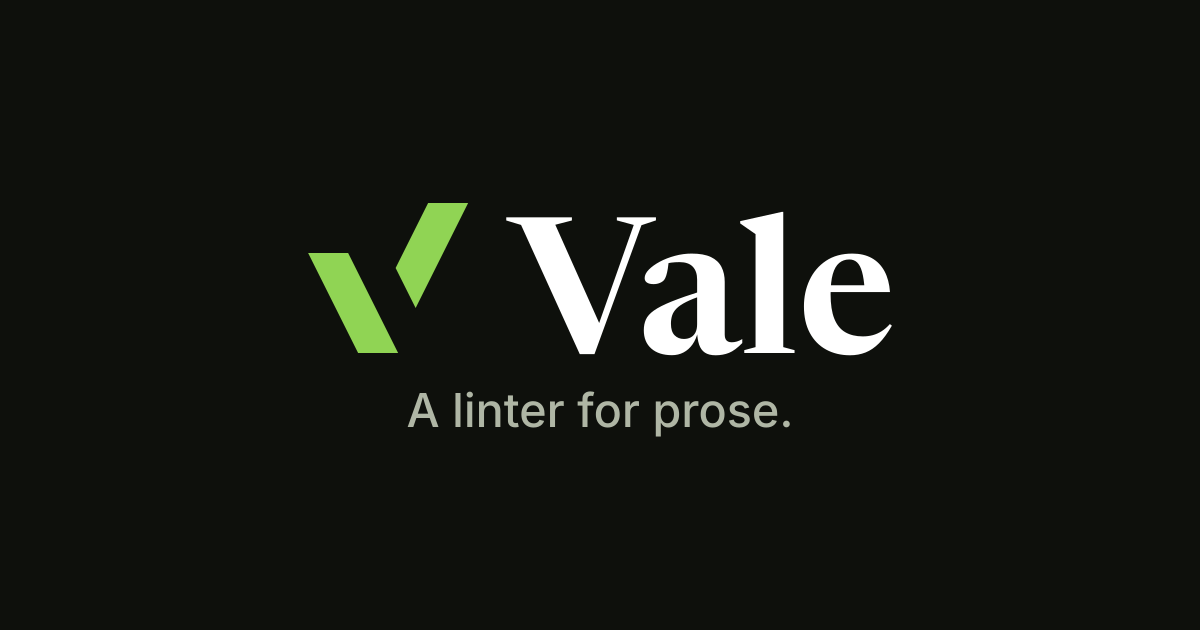
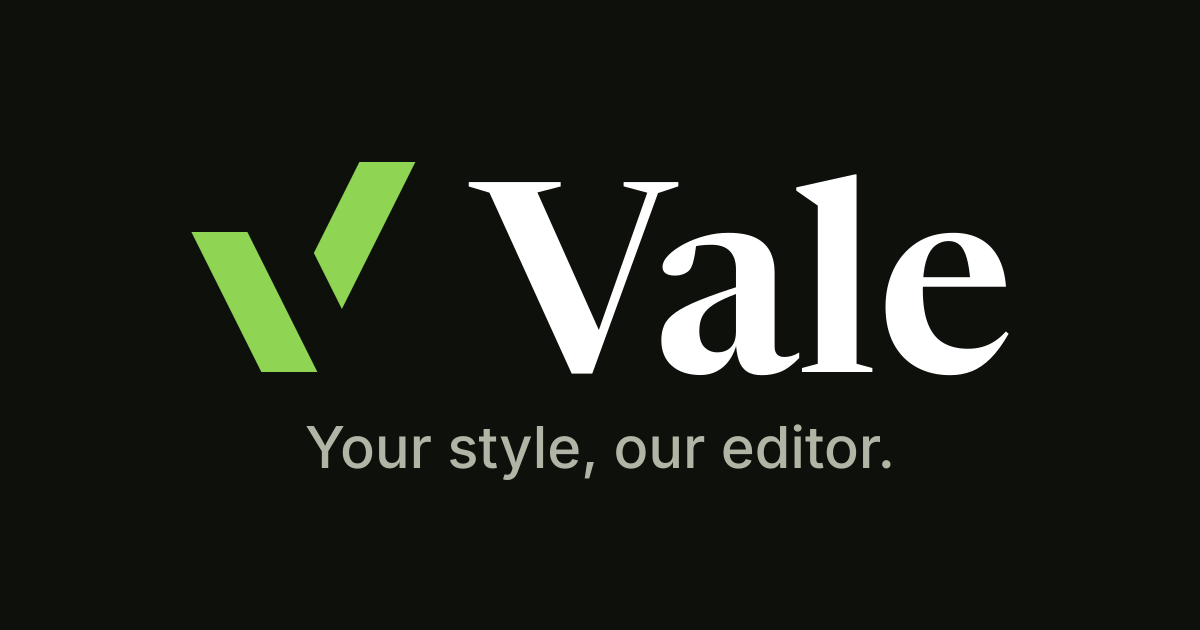
tagline

Changed region(s): [[0.1542, 0.2413, 0.8633, 0.6032], [0.2467, 0.6032, 0.74, 0.754]]

diff --git a/script/brand/main.py b/script/brand/main.py
@@ -235,11 +235,11 @@ for name, bg, fill in (('dark', GRAPHITE, GRASS_LIGHT), ('light', PAPER, GRASS))
 
 # Social card, 1200x630.
 CW, CH = 1200, 630
-lock_h = 150
+lock_h = 210
 k = lock_h / LOCK_H
-tag, tag_w = text_path('A linter for prose.', INTER, 34, 0, 0, MUTED)
-top = (CH - (lock_h + 74)) / 2
-tag, _ = text_path('A linter for prose.', INTER, 34, (CW - tag_w) / 2, top + lock_h + 74, MUTED)
+tag, tag_w = text_path('Your style, our editor.', INTER, 42, 0, 0, MUTED)
+top = (CH - (lock_h + 96)) / 2
+tag, _ = text_path('Your style, our editor.', INTER, 42, (CW - tag_w) / 2, top + lock_h + 96, MUTED)
 social = (
     f'{SVG} viewBox="0 0 {CW} {CH}"><rect width="{CW}" height="{CH}" fill="{GRAPHITE}"/>'
     f'<g transform="translate({(CW - LOCK_W * k) / 2:.2f} {top:.2f}) scale({k:.6f})">{body(LOCK_DARK)}</g>{tag}</svg>\n'
